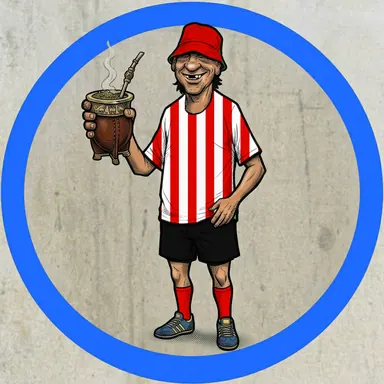
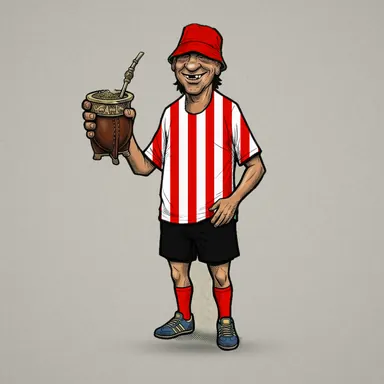
feat(avatares): hinchas sobre fondo gris liso, sin círculo
Claude-Session: https://claude.ai/code/session_01QKgA6nDdpByUDEuMYCpMxJ

diff --git a/CLAUDE.md b/CLAUDE.md
@@ -145,7 +145,7 @@ src/
   - **Desde octubre 2026 se ven ilustraciones**: una imagen por avatar en `public/avatars/hinchas/<id>.webp` (384×384,
     ~18 KB). Salen de UNA ilustración base propia (hecha por Camila con IA: el hincha con el mate, ropa en verde, magenta y
     celeste puros) que un script recolorea por club: camiseta con el diseño (rayas, franja, banda, mitades, V), short,
-    medias, piluso con un color del club y el círculo con el `fondo`. `<Avatar>` muestra la imagen (`hinchaImagen(id)`);
+    medias y piluso con un color del club, sobre fondo gris liso (sin círculo). `<Avatar>` muestra la imagen (`hinchaImagen(id)`);
     chiquito la agranda ×1,9 y la centra en cara y pecho. Si la imagen no carga, usa el SVG de `Hincha.tsx` (respaldo).
     Las imágenes tampoco pueden tener texto, escudos, logos ni sponsors. Un test controla que haya una por hincha.
     Para un club nuevo hay que generar su imagen con el mismo script (pedírselo a Claude con la imagen base).
